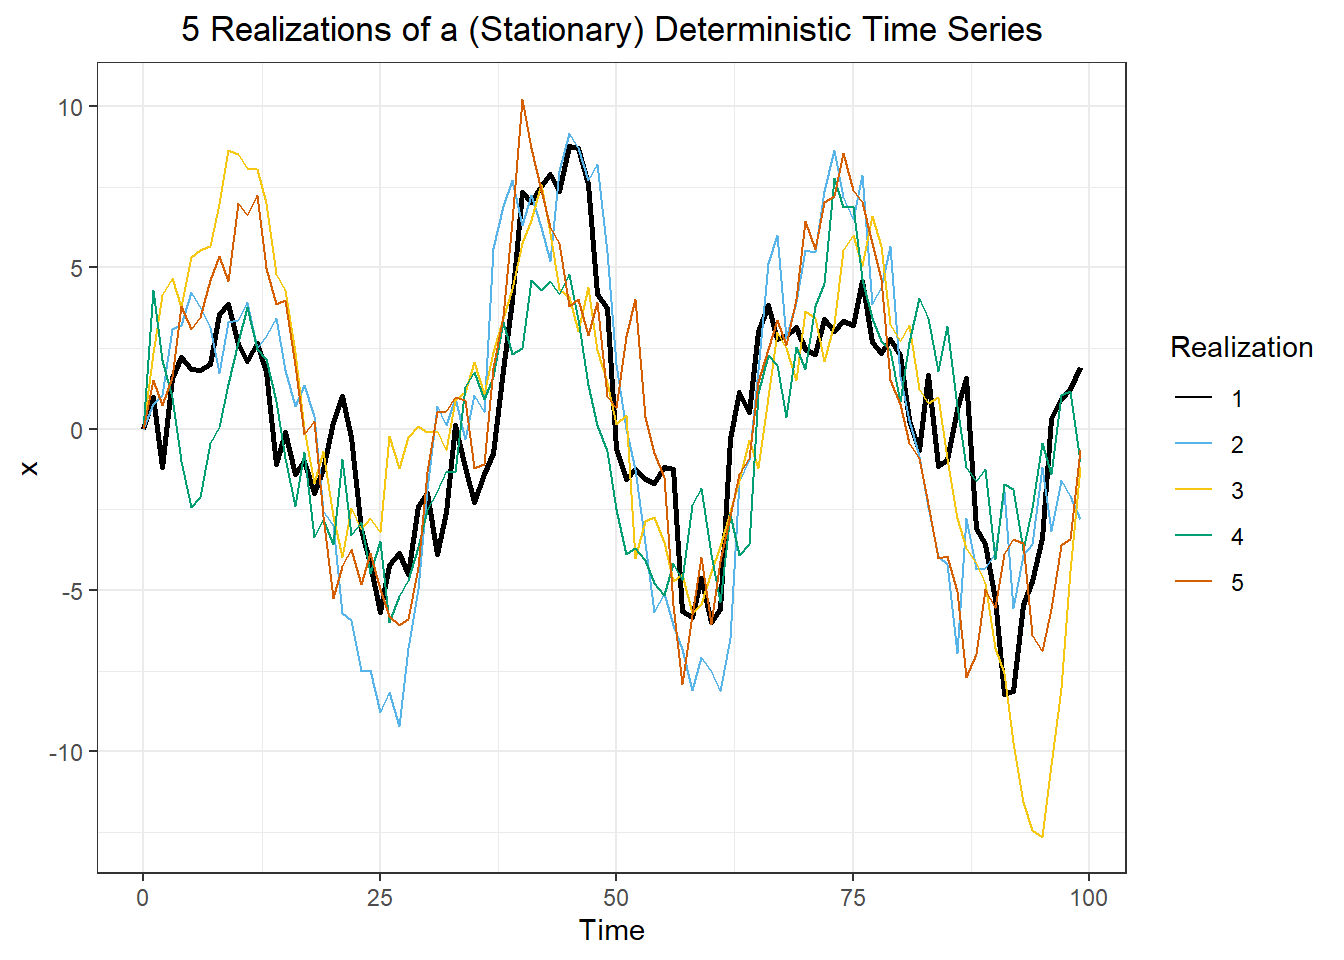
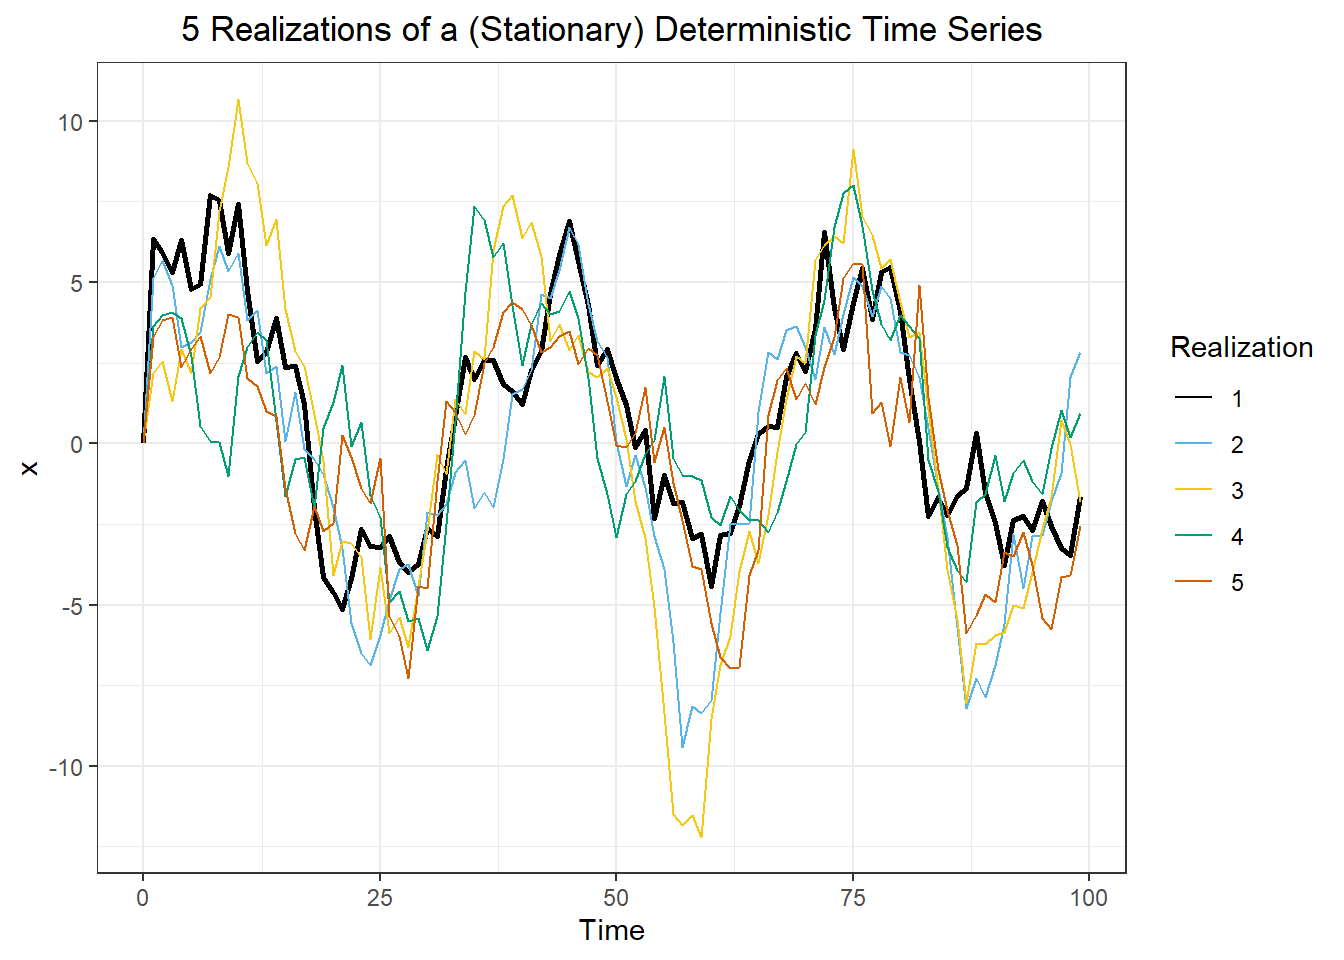
Minor changes

diff --git a/chapter_2/chapter_2_lesson_1_class.html b/chapter_2/chapter_2_lesson_1_class.html
@@ -358,10 +358,6 @@ Compute the key statistics used to describe the linear relationship between two 
 </ul>
 <p>The variance and standard deviation are individual numbers that summarize how far the data are from the mean. We first compute the deviations from the mean, <span class="math inline">\(x - \bar x\)</span>. This is the directed distance from the mean to each data point.</p>
 <div class="cell">
-<div class="cell-output cell-output-stderr">
-<pre><code>Warning in is.na(x): is.na() applied to non-(list or vector) of type
-'expression'</code></pre>
-</div>
 <div class="cell-output-display">
 <p><img src="chapter_2_lesson_1_class_files/figure-html/unnamed-chunk-4-1.png" class="img-fluid" width="672"></p>
 </div>
@@ -437,30 +433,30 @@ Caution
 </div>
 <p>The following code simulates <span class="math inline">\((x,y)\)</span>-pairs of random variables.</p>
 <div class="cell">
-<div class="sourceCode cell-code" id="cb5"><pre class="sourceCode r code-with-copy"><code class="sourceCode r"><span id="cb5-1"><a href="#cb5-1" aria-hidden="true" tabindex="-1"></a><span class="co"># Unset random seed</span></span>
-<span id="cb5-2"><a href="#cb5-2" aria-hidden="true" tabindex="-1"></a><span class="fu">set.seed</span>(<span class="fu">Sys.time</span>())</span>
-<span id="cb5-3"><a href="#cb5-3" aria-hidden="true" tabindex="-1"></a></span>
-<span id="cb5-4"><a href="#cb5-4" aria-hidden="true" tabindex="-1"></a><span class="co"># Specify means and correlation coefficient</span></span>
-<span id="cb5-5"><a href="#cb5-5" aria-hidden="true" tabindex="-1"></a>n <span class="ot">&lt;-</span> <span class="dv">50</span>             <span class="co"># number of points</span></span>
-<span id="cb5-6"><a href="#cb5-6" aria-hidden="true" tabindex="-1"></a>mu <span class="ot">&lt;-</span> <span class="fu">c</span>(<span class="fl">1.25</span>, <span class="fl">2.5</span>)  <span class="co"># mean vector (mu_x, mu_y)</span></span>
-<span id="cb5-7"><a href="#cb5-7" aria-hidden="true" tabindex="-1"></a>sigma_x <span class="ot">&lt;-</span> <span class="dv">1</span>        <span class="co"># standard deviation x</span></span>
-<span id="cb5-8"><a href="#cb5-8" aria-hidden="true" tabindex="-1"></a>sigma_y <span class="ot">&lt;-</span> <span class="dv">3</span>        <span class="co"># standard deviation y</span></span>
-<span id="cb5-9"><a href="#cb5-9" aria-hidden="true" tabindex="-1"></a>rho <span class="ot">&lt;-</span> <span class="fl">0.8</span>          <span class="co"># correlation coefficient</span></span>
-<span id="cb5-10"><a href="#cb5-10" aria-hidden="true" tabindex="-1"></a></span>
-<span id="cb5-11"><a href="#cb5-11" aria-hidden="true" tabindex="-1"></a><span class="co"># Define variance-covariance matrix</span></span>
-<span id="cb5-12"><a href="#cb5-12" aria-hidden="true" tabindex="-1"></a>sigma <span class="ot">&lt;-</span> <span class="fu">matrix</span>(</span>
-<span id="cb5-13"><a href="#cb5-13" aria-hidden="true" tabindex="-1"></a>  <span class="fu">c</span>(sigma_x<span class="sc">^</span><span class="dv">2</span>,</span>
-<span id="cb5-14"><a href="#cb5-14" aria-hidden="true" tabindex="-1"></a>    rho<span class="sc">*</span>sigma_x<span class="sc">*</span>sigma_y,</span>
-<span id="cb5-15"><a href="#cb5-15" aria-hidden="true" tabindex="-1"></a>    rho<span class="sc">*</span>sigma_x<span class="sc">*</span>sigma_y,</span>
-<span id="cb5-16"><a href="#cb5-16" aria-hidden="true" tabindex="-1"></a>    sigma_y<span class="sc">^</span><span class="dv">2</span>),</span>
-<span id="cb5-17"><a href="#cb5-17" aria-hidden="true" tabindex="-1"></a>  <span class="at">nrow =</span> <span class="dv">2</span>)</span>
-<span id="cb5-18"><a href="#cb5-18" aria-hidden="true" tabindex="-1"></a></span>
-<span id="cb5-19"><a href="#cb5-19" aria-hidden="true" tabindex="-1"></a><span class="co"># Simulate bivariate normal data</span></span>
-<span id="cb5-20"><a href="#cb5-20" aria-hidden="true" tabindex="-1"></a>mvn_data <span class="ot">&lt;-</span> MASS<span class="sc">::</span><span class="fu">mvrnorm</span>(n, mu, sigma) <span class="sc">|&gt;</span> </span>
-<span id="cb5-21"><a href="#cb5-21" aria-hidden="true" tabindex="-1"></a>  <span class="fu">data.frame</span>() <span class="sc">|&gt;</span> </span>
-<span id="cb5-22"><a href="#cb5-22" aria-hidden="true" tabindex="-1"></a>  <span class="fu">rename</span>(<span class="at">x =</span> X1, <span class="at">y =</span> X2)</span></code><button title="Copy to Clipboard" class="code-copy-button"><i class="bi"></i></button></pre></div>
+<div class="sourceCode cell-code" id="cb4"><pre class="sourceCode r code-with-copy"><code class="sourceCode r"><span id="cb4-1"><a href="#cb4-1" aria-hidden="true" tabindex="-1"></a><span class="co"># Unset random seed</span></span>
+<span id="cb4-2"><a href="#cb4-2" aria-hidden="true" tabindex="-1"></a><span class="fu">set.seed</span>(<span class="fu">Sys.time</span>())</span>
+<span id="cb4-3"><a href="#cb4-3" aria-hidden="true" tabindex="-1"></a></span>
+<span id="cb4-4"><a href="#cb4-4" aria-hidden="true" tabindex="-1"></a><span class="co"># Specify means and correlation coefficient</span></span>
+<span id="cb4-5"><a href="#cb4-5" aria-hidden="true" tabindex="-1"></a>n <span class="ot">&lt;-</span> <span class="dv">50</span>             <span class="co"># number of points</span></span>
+<span id="cb4-6"><a href="#cb4-6" aria-hidden="true" tabindex="-1"></a>mu <span class="ot">&lt;-</span> <span class="fu">c</span>(<span class="fl">1.25</span>, <span class="fl">2.5</span>)  <span class="co"># mean vector (mu_x, mu_y)</span></span>
+<span id="cb4-7"><a href="#cb4-7" aria-hidden="true" tabindex="-1"></a>sigma_x <span class="ot">&lt;-</span> <span class="dv">1</span>        <span class="co"># standard deviation x</span></span>
+<span id="cb4-8"><a href="#cb4-8" aria-hidden="true" tabindex="-1"></a>sigma_y <span class="ot">&lt;-</span> <span class="dv">3</span>        <span class="co"># standard deviation y</span></span>
+<span id="cb4-9"><a href="#cb4-9" aria-hidden="true" tabindex="-1"></a>rho <span class="ot">&lt;-</span> <span class="fl">0.8</span>          <span class="co"># correlation coefficient</span></span>
+<span id="cb4-10"><a href="#cb4-10" aria-hidden="true" tabindex="-1"></a></span>
+<span id="cb4-11"><a href="#cb4-11" aria-hidden="true" tabindex="-1"></a><span class="co"># Define variance-covariance matrix</span></span>
+<span id="cb4-12"><a href="#cb4-12" aria-hidden="true" tabindex="-1"></a>sigma <span class="ot">&lt;-</span> <span class="fu">matrix</span>(</span>
+<span id="cb4-13"><a href="#cb4-13" aria-hidden="true" tabindex="-1"></a>  <span class="fu">c</span>(sigma_x<span class="sc">^</span><span class="dv">2</span>,</span>
+<span id="cb4-14"><a href="#cb4-14" aria-hidden="true" tabindex="-1"></a>    rho<span class="sc">*</span>sigma_x<span class="sc">*</span>sigma_y,</span>
+<span id="cb4-15"><a href="#cb4-15" aria-hidden="true" tabindex="-1"></a>    rho<span class="sc">*</span>sigma_x<span class="sc">*</span>sigma_y,</span>
+<span id="cb4-16"><a href="#cb4-16" aria-hidden="true" tabindex="-1"></a>    sigma_y<span class="sc">^</span><span class="dv">2</span>),</span>
+<span id="cb4-17"><a href="#cb4-17" aria-hidden="true" tabindex="-1"></a>  <span class="at">nrow =</span> <span class="dv">2</span>)</span>
+<span id="cb4-18"><a href="#cb4-18" aria-hidden="true" tabindex="-1"></a></span>
+<span id="cb4-19"><a href="#cb4-19" aria-hidden="true" tabindex="-1"></a><span class="co"># Simulate bivariate normal data</span></span>
+<span id="cb4-20"><a href="#cb4-20" aria-hidden="true" tabindex="-1"></a>mvn_data <span class="ot">&lt;-</span> MASS<span class="sc">::</span><span class="fu">mvrnorm</span>(n, mu, sigma) <span class="sc">|&gt;</span> </span>
+<span id="cb4-21"><a href="#cb4-21" aria-hidden="true" tabindex="-1"></a>  <span class="fu">data.frame</span>() <span class="sc">|&gt;</span> </span>
+<span id="cb4-22"><a href="#cb4-22" aria-hidden="true" tabindex="-1"></a>  <span class="fu">rename</span>(<span class="at">x =</span> X1, <span class="at">y =</span> X2)</span></code><button title="Copy to Clipboard" class="code-copy-button"><i class="bi"></i></button></pre></div>
 </div>
-<p>The following table illustrates some of the simulated values. The mean of the <span class="math inline">\(x\)</span> values is <span class="math inline">\(\bar x = 1.203\)</span>. The mean of the <span class="math inline">\(y\)</span> values is <span class="math inline">\(\bar y =2.226\)</span>. We will soon use the values <span class="math inline">\((x-\bar x)\)</span>, <span class="math inline">\((x-\bar x)^2\)</span>, <span class="math inline">\((y-\bar y)\)</span>, <span class="math inline">\((y-\bar y)^2\)</span>, and <span class="math inline">\((x-\bar x)(y-\bar y)\)</span>. For convenience, they are included in the table below.</p>
+<p>The following table illustrates some of the simulated values. The mean of the <span class="math inline">\(x\)</span> values is <span class="math inline">\(\bar x = 1.26\)</span>. The mean of the <span class="math inline">\(y\)</span> values is <span class="math inline">\(\bar y =2.584\)</span>. We will soon use the values <span class="math inline">\((x-\bar x)\)</span>, <span class="math inline">\((x-\bar x)^2\)</span>, <span class="math inline">\((y-\bar y)\)</span>, <span class="math inline">\((y-\bar y)^2\)</span>, and <span class="math inline">\((x-\bar x)(y-\bar y)\)</span>. For convenience, they are included in the table below.</p>
 <div class="cell">
 <div class="cell-output-display">
 <table class="table table-sm table-striped small" data-quarto-postprocess="true">
@@ -479,63 +475,63 @@ Caution
 <tbody>
 <tr class="odd">
 <td style="text-align: center;">1</td>
-<td style="text-align: center;">1.081</td>
-<td style="text-align: center;">-0.137</td>
-<td style="text-align: center;">-0.123</td>
-<td style="text-align: center;">0.015</td>
-<td style="text-align: center;">-2.363</td>
-<td style="text-align: center;">5.586</td>
-<td style="text-align: center;"><span style="     color: #E69F00 !important;">0.29</span></td>
+<td style="text-align: center;">2.164</td>
+<td style="text-align: center;">5.448</td>
+<td style="text-align: center;">0.904</td>
+<td style="text-align: center;">0.818</td>
+<td style="text-align: center;">2.864</td>
+<td style="text-align: center;">8.205</td>
+<td style="text-align: center;"><span style="     color: #E69F00 !important;">2.59</span></td>
 </tr>
 <tr class="even">
 <td style="text-align: center;">2</td>
-<td style="text-align: center;">4.074</td>
-<td style="text-align: center;">9.107</td>
-<td style="text-align: center;">2.871</td>
-<td style="text-align: center;">8.24</td>
-<td style="text-align: center;">6.881</td>
-<td style="text-align: center;">47.352</td>
-<td style="text-align: center;"><span style="     color: #E69F00 !important;">19.753</span></td>
+<td style="text-align: center;">0.587</td>
+<td style="text-align: center;">0.259</td>
+<td style="text-align: center;">-0.673</td>
+<td style="text-align: center;">0.452</td>
+<td style="text-align: center;">-2.325</td>
+<td style="text-align: center;">5.403</td>
+<td style="text-align: center;"><span style="     color: #E69F00 !important;">1.564</span></td>
 </tr>
 <tr class="odd">
 <td style="text-align: center;">3</td>
-<td style="text-align: center;">1.846</td>
-<td style="text-align: center;">2.266</td>
-<td style="text-align: center;">0.642</td>
-<td style="text-align: center;">0.413</td>
-<td style="text-align: center;">0.04</td>
-<td style="text-align: center;">0.002</td>
-<td style="text-align: center;"><span style="     color: #E69F00 !important;">0.026</span></td>
+<td style="text-align: center;">2.775</td>
+<td style="text-align: center;">6.391</td>
+<td style="text-align: center;">1.515</td>
+<td style="text-align: center;">2.296</td>
+<td style="text-align: center;">3.808</td>
+<td style="text-align: center;">14.499</td>
+<td style="text-align: center;"><span style="     color: #E69F00 !important;">5.769</span></td>
 </tr>
 <tr class="even">
 <td style="text-align: center;">4</td>
-<td style="text-align: center;">0.86</td>
-<td style="text-align: center;">0.329</td>
-<td style="text-align: center;">-0.343</td>
-<td style="text-align: center;">0.118</td>
-<td style="text-align: center;">-1.897</td>
-<td style="text-align: center;">3.597</td>
-<td style="text-align: center;"><span style="     color: #E69F00 !important;">0.651</span></td>
+<td style="text-align: center;">2.392</td>
+<td style="text-align: center;">5.598</td>
+<td style="text-align: center;">1.132</td>
+<td style="text-align: center;">1.281</td>
+<td style="text-align: center;">3.015</td>
+<td style="text-align: center;">9.088</td>
+<td style="text-align: center;"><span style="     color: #E69F00 !important;">3.412</span></td>
 </tr>
 <tr class="odd">
 <td style="text-align: center;">5</td>
-<td style="text-align: center;">1.295</td>
-<td style="text-align: center;">2.363</td>
-<td style="text-align: center;">0.091</td>
-<td style="text-align: center;">0.008</td>
-<td style="text-align: center;">0.137</td>
-<td style="text-align: center;">0.019</td>
-<td style="text-align: center;"><span style="     color: #E69F00 !important;">0.013</span></td>
+<td style="text-align: center;">0.984</td>
+<td style="text-align: center;">3.137</td>
+<td style="text-align: center;">-0.276</td>
+<td style="text-align: center;">0.076</td>
+<td style="text-align: center;">0.554</td>
+<td style="text-align: center;">0.307</td>
+<td style="text-align: center;"><span style="     color: #56B4E9 !important;">-0.153</span></td>
 </tr>
 <tr class="even">
 <td style="text-align: center;">6</td>
-<td style="text-align: center;">0.386</td>
-<td style="text-align: center;">3.23</td>
-<td style="text-align: center;">-0.817</td>
-<td style="text-align: center;">0.668</td>
-<td style="text-align: center;">1.004</td>
-<td style="text-align: center;">1.007</td>
-<td style="text-align: center;"><span style="     color: #56B4E9 !important;">-0.82</span></td>
+<td style="text-align: center;">-1.294</td>
+<td style="text-align: center;">-3.151</td>
+<td style="text-align: center;">-2.554</td>
+<td style="text-align: center;">6.521</td>
+<td style="text-align: center;">-5.735</td>
+<td style="text-align: center;">32.889</td>
+<td style="text-align: center;"><span style="     color: #E69F00 !important;">14.644</span></td>
 </tr>
 <tr class="odd">
 <td style="text-align: center;">:</td>
@@ -559,43 +555,43 @@ Caution
 </tr>
 <tr class="odd">
 <td style="text-align: center;">48</td>
-<td style="text-align: center;">1.823</td>
-<td style="text-align: center;">0.738</td>
-<td style="text-align: center;">0.62</td>
-<td style="text-align: center;">0.384</td>
-<td style="text-align: center;">-1.488</td>
-<td style="text-align: center;">2.214</td>
-<td style="text-align: center;"><span style="     color: #56B4E9 !important;">-0.922</span></td>
+<td style="text-align: center;">0.768</td>
+<td style="text-align: center;">3.231</td>
+<td style="text-align: center;">-0.492</td>
+<td style="text-align: center;">0.242</td>
+<td style="text-align: center;">0.647</td>
+<td style="text-align: center;">0.419</td>
+<td style="text-align: center;"><span style="     color: #56B4E9 !important;">-0.318</span></td>
 </tr>
 <tr class="even">
 <td style="text-align: center;">49</td>
-<td style="text-align: center;">3.155</td>
-<td style="text-align: center;">5.561</td>
-<td style="text-align: center;">1.951</td>
-<td style="text-align: center;">3.807</td>
-<td style="text-align: center;">3.335</td>
-<td style="text-align: center;">11.12</td>
-<td style="text-align: center;"><span style="     color: #E69F00 !important;">6.507</span></td>
+<td style="text-align: center;">-0.084</td>
+<td style="text-align: center;">-0.927</td>
+<td style="text-align: center;">-1.344</td>
+<td style="text-align: center;">1.806</td>
+<td style="text-align: center;">-3.511</td>
+<td style="text-align: center;">12.328</td>
+<td style="text-align: center;"><span style="     color: #E69F00 !important;">4.719</span></td>
 </tr>
 <tr class="odd">
 <td style="text-align: center;">50</td>
-<td style="text-align: center;">2.165</td>
-<td style="text-align: center;">1.119</td>
-<td style="text-align: center;">0.962</td>
-<td style="text-align: center;">0.925</td>
-<td style="text-align: center;">-1.107</td>
-<td style="text-align: center;">1.225</td>
-<td style="text-align: center;"><span style="     color: #56B4E9 !important;">-1.065</span></td>
+<td style="text-align: center;">2.283</td>
+<td style="text-align: center;">5.841</td>
+<td style="text-align: center;">1.023</td>
+<td style="text-align: center;">1.046</td>
+<td style="text-align: center;">3.257</td>
+<td style="text-align: center;">10.611</td>
+<td style="text-align: center;"><span style="     color: #E69F00 !important;">3.331</span></td>
 </tr>
 <tr class="even">
 <td style="text-align: center;">sum</td>
-<td style="text-align: center;">60.175</td>
-<td style="text-align: center;">111.305</td>
+<td style="text-align: center;">62.998</td>
+<td style="text-align: center;">129.182</td>
 <td style="text-align: center;">0</td>
-<td style="text-align: center;">52.166</td>
+<td style="text-align: center;">58.15</td>
 <td style="text-align: center;">0</td>
-<td style="text-align: center;">451.785</td>
-<td style="text-align: center;"><span style="     color: #E69F00 !important;">112.536</span></td>
+<td style="text-align: center;">439.547</td>
+<td style="text-align: center;"><span style="     color: #E69F00 !important;">138.141</span></td>
 </tr>
 </tbody>
 </table>
@@ -620,9 +616,9 @@ Cov(x,y)
 =
 \frac{\sum\limits_{i=1}^n (x - \bar x)(y - \bar y)}{n-1}
 =
-\frac{112.536}{50 - 1}
+\frac{138.141}{50 - 1}
 =
-2.297
+2.819
 \]</span></p>
 <p>You can think of this as an “average” of the <span class="math inline">\((x - \bar x)(y - \bar y)\)</span> values. The only difference is that we divide by <span class="math inline">\(n-1\)</span> instead of <span class="math inline">\(n\)</span>.</p>
 <ul>
@@ -637,38 +633,38 @@ s_x &amp;= \sqrt{ \frac{\sum\limits_{i=1}^n (x - \bar x)^2}{n-1} }
 =
 \sqrt{
 \frac{
-52.166
+58.15
 }{
 50-1
 }
 }
 =
-1.032
+1.089
 \\
 s_y &amp;= \sqrt{ \frac{\sum\limits_{i=1}^n (y - \bar y)^2}{n-1} }
 =
 \sqrt{
 \frac{
-451.785
+439.547
 }{
 50-1
 }
 }
 =
-3.036
+2.995
 \end{align*}
 \]</span></p>
 <p>The sample correlation coefficient is: <span class="math display">\[
 r = \frac{\sum\limits_{i=1}^n (x - \bar x)(y - \bar y)}{\sqrt{\sum\limits_{i=1}^n (x - \bar x)^2} \sqrt{\sum\limits_{i=1}^n (y - \bar y)^2}}
 =
 \frac{
-112.536
+138.141
 }{
-\sqrt{ 52.166}
-\sqrt{ 451.785}
+\sqrt{ 58.15}
+\sqrt{ 439.547}
 }
 =
-0.733
+0.864
 \]</span></p>
 <ul>
 <li><p>What do you get if you multiply the equations for <span class="math inline">\(r\)</span>, <span class="math inline">\(s_x\)</span>, and <span class="math inline">\(s_y\)</span> together?</p>
@@ -689,13 +685,13 @@ r = \frac{\sum\limits_{i=1}^n (x - \bar x)(y - \bar y)}{\sqrt{\sum\limits_{i=1}^
 $$
 Cov(x,y) = r \cdot s_x \cdot s_y 
 =
-0.733
+0.864
 \cdot 
-1.032
+1.089
 \cdot 
-3.036
+2.995
 =
-2.297
+2.819
 $$
  -->
 </section>

diff --git a/chapter_2/chapter_2_lesson_2_class.html b/chapter_2/chapter_2_lesson_2_class.html
@@ -307,6 +307,23 @@ Calculate sample estimates of autocovariance and autocorrelation functions from 
 <li>What would you recommend your partner add to their learning journal?</li>
 <li>Sign the Learning Journal review sheet for your peer</li>
 </ul>
+<!-- # -->
+<!-- # -->
+<!-- # -->
+<!-- # -->
+<!-- # -->
+<!-- # -->
+<!-- # -->
+<!-- # -->
+<!-- The following was moved to Chapter 1, Lesson 2 -->
+<!-- # -->
+<!-- # -->
+<!-- # -->
+<!-- # -->
+<!-- # -->
+<!-- # -->
+<!-- # -->
+<!-- # -->
 <!-- ## Introduction (5 mins) -->
 <!-- The following app illustrates a few realizations of a time series.  -->
 <!-- ::: callout-caution -->
@@ -580,7 +597,7 @@ Calculate sample estimates of autocovariance and autocorrelation functions from 
 </div>
 </div>
 <ul>
-<li>Working with your assigned partner, compute each of the values in row 1. Verify that each of the numbers in the table was computed correctly. Recall that <span class="math inline">\(\bar x = 4.7\)</span>.</li>
+<li>Working with your assigned partner, compute each of the values in row 1 by hand. Recall that <span class="math inline">\(\bar x = 4.7\)</span>.</li>
 <li>With your partner, add up the values in the last column to verify that the sum is 2.06.</li>
 </ul>
 <p>The scatterplot below illustrates the relationship between the observed data (<span class="math inline">\(x_t\)</span>) and the next observation (<span class="math inline">\(x_{t+1}\)</span>).</p>

diff --git a/chapter_1/chapter_1_lesson_2_class.html b/chapter_1/chapter_1_lesson_2_class.html
@@ -479,13 +479,13 @@ Tyson: NOTE This was added 12/28.
 <p>The figure below illustrates realizations of a deterministic time series. The data fluctuate around a sine curve.</p>
 <div class="cell">
 <div class="cell-output cell-output-stdout">
-<pre><code>  i          x rep
-1 0  0.0000000   1
-2 1  0.9710864   1
-3 2 -1.1727925   1
-4 3  1.5748319   1
-5 4  2.2131289   1
-6 5  1.8381819   1</code></pre>
+<pre><code>  i        x rep
+1 0 0.000000   1
+2 1 6.331735   1
+3 2 5.931722   1
+4 3 5.323195   1
+5 4 6.314351   1
+6 5 4.799811   1</code></pre>
 </div>
 <div class="cell-output-display">
 <p><img src="chapter_1_lesson_2_class_files/figure-html/unnamed-chunk-3-1.png" class="img-fluid" width="672"></p>
